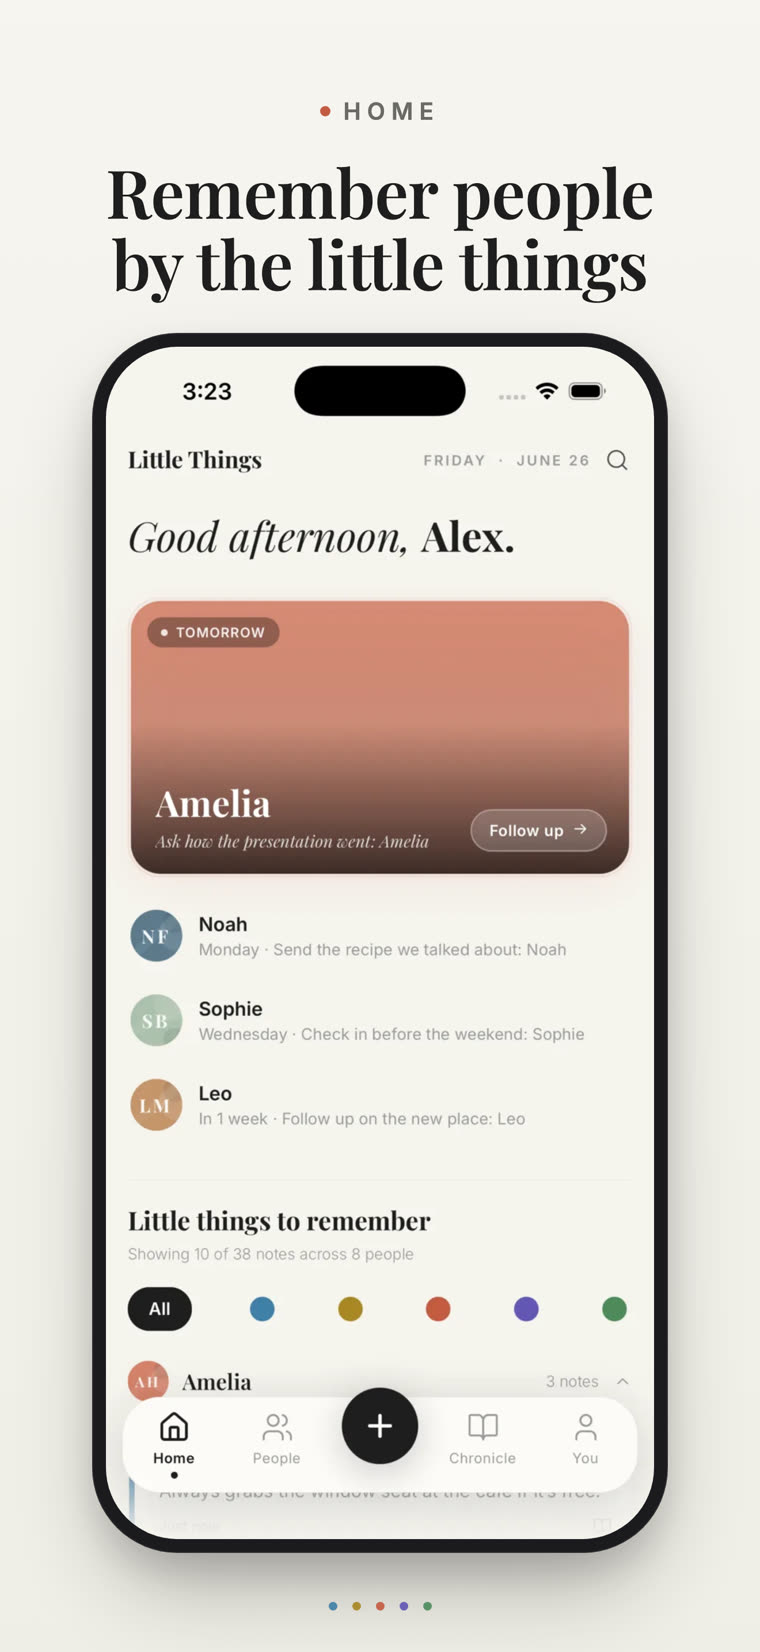
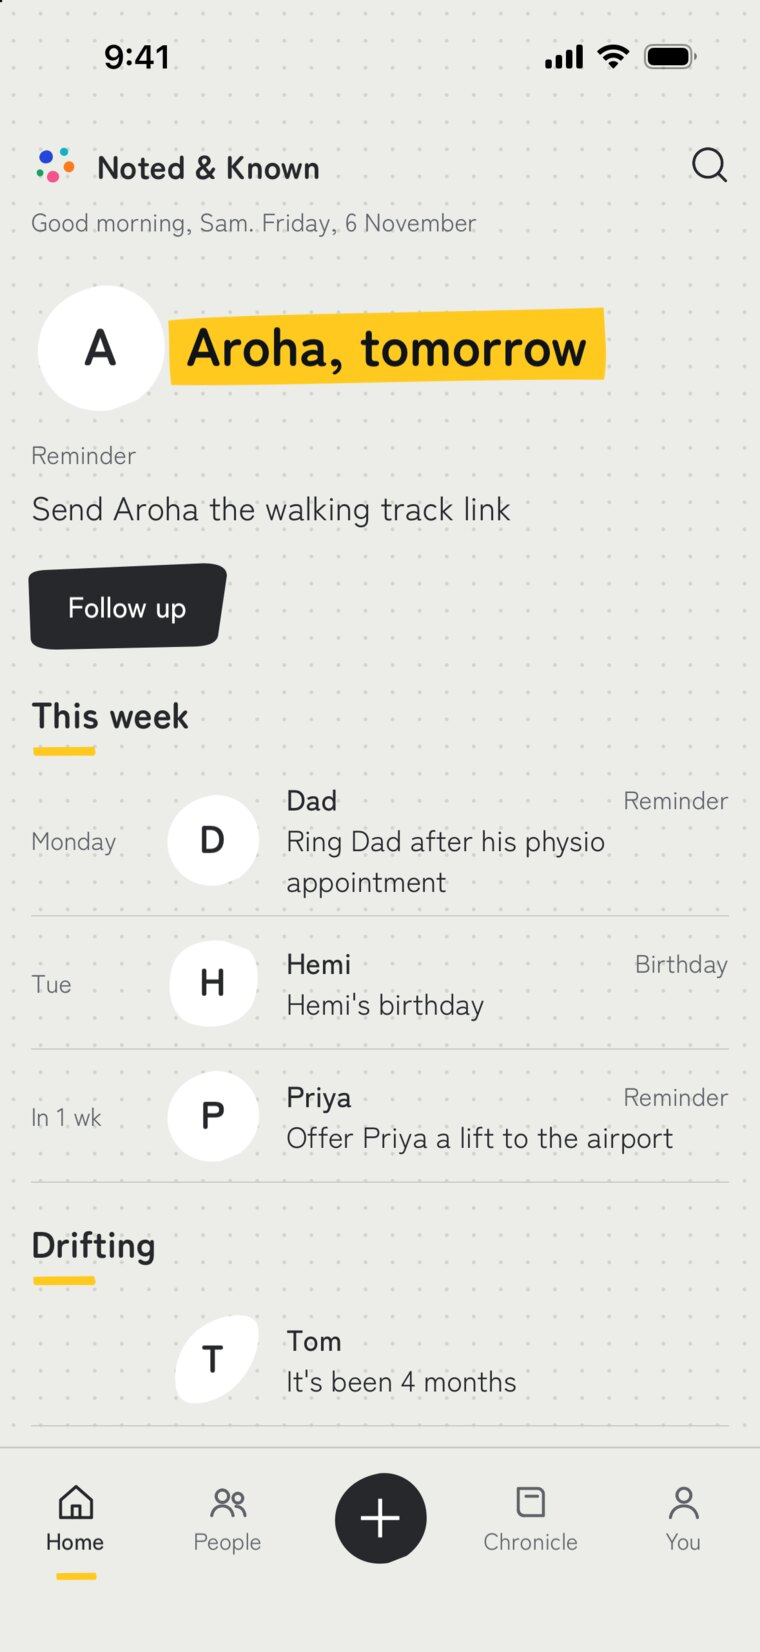
Rename the Little Things case to Noted & Known and refresh its screens

diff --git a/case-littlethings.html b/case-littlethings.html
@@ -3,10 +3,10 @@
 <head>
   <meta charset="UTF-8">
   <meta name="viewport" content="width=device-width, initial-scale=1.0">
-  <title>Little Things — a Singh Studio case</title>
-  <meta name="description" content="Little Things is Singh Studio's own app for iOS and Android: a private, on-device way to remember people by the small details. Designed, built and shipped from one desk.">
-  <meta property="og:title" content="Little Things — a Singh Studio case">
-  <meta property="og:description" content="Little Things is Singh Studio's own app for iOS and Android: a private, on-device way to remember people by the small details. Designed, built and shipped from one desk.">
+  <title>Noted &amp; Known — a Singh Studio case</title>
+  <meta name="description" content="Noted &amp; Known is Singh Studio's own iPhone app: a private, on-device way to remember people by the small details. Designed and built from one desk.">
+  <meta property="og:title" content="Noted &amp; Known — a Singh Studio case">
+  <meta property="og:description" content="Noted &amp; Known is Singh Studio's own iPhone app: a private, on-device way to remember people by the small details. Designed and built from one desk.">
   <meta property="og:type" content="website">
   <meta property="og:site_name" content="Singh Studio">
   <meta property="og:locale" content="en_NZ">
@@ -26,12 +26,12 @@
   {
     "@context": "https://schema.org",
     "@type": "SoftwareApplication",
-    "name": "Little Things",
-    "operatingSystem": "iOS, Android",
+    "name": "Noted & Known",
+    "operatingSystem": "iOS",
     "applicationCategory": "LifestyleApplication",
     "creator": { "@type": "Organization", "name": "Singh Studio" },
-    "url": "https://www.getlittlethings.app",
-    "description": "A private, on-device app for remembering people by the little things: observations, interests, gift ideas, moments and support notes."
+    "url": "https://notedandknown.app/",
+    "description": "A private, on-device app for keeping notes on the people you love: observations, interests, gift ideas, moments and support notes."
   }
   </script>
   <script type="application/ld+json">
@@ -40,7 +40,7 @@
     "@type": "BreadcrumbList",
     "itemListElement": [
       { "@type": "ListItem", "position": 1, "name": "Home", "item": "https://www.singhstudio.co.nz/" },
-      { "@type": "ListItem", "position": 2, "name": "Little Things", "item": "https://www.singhstudio.co.nz/case-littlethings.html" }
+      { "@type": "ListItem", "position": 2, "name": "Noted & Known", "item": "https://www.singhstudio.co.nz/case-littlethings.html" }
     ]
   }
   </script>
@@ -88,12 +88,12 @@
 
     <header class="sub-hero">
       <p class="eyebrow"><span class="red">Case /05</span> Selected work<a class="cc-link" href="index.html#work" style="margin-left: 1em;">← All work</a></p>
-      <h1 class="sub-title"><span class="ht-line"><span class="ht-inner" data-letters>Little<em class="ht-slash" aria-hidden="true">/</em>Things</span></span></h1>
+      <h1 class="sub-title"><span class="ht-line"><span class="ht-inner" data-letters>Noted<em class="ht-slash" aria-hidden="true">&amp;</em>Known</span></span></h1>
       <dl class="case-meta">
         <div><dt>Client</dt><dd>My own product</dd></div>
         <div><dt>Years</dt><dd>2026</dd></div>
         <div><dt>Scope</dt><dd>App · Product design · Build &amp; ship</dd></div>
-        <div><dt>Live</dt><dd><a class="cc-link" href="https://www.getlittlethings.app" target="_blank" rel="noopener">getlittlethings.app ↗</a></dd></div>
+        <div><dt>Live</dt><dd><a class="cc-link" href="https://notedandknown.app/" target="_blank" rel="noopener">notedandknown.app ↗</a></dd></div>
       </dl>
     </header>
 
@@ -105,25 +105,25 @@
         </div>
         <div class="case-block">
           <h2>/ The approach</h2>
-          <p>The design started with the behaviour rather than a feature list: what does caring attention look like, week to week? It settled into five kinds of note (observations, interests, gift ideas, moments, support), a catch-up brief before you see someone, and gentle reminders timed to the moments they serve. Trust decided the architecture. Everything stays on the device, with no account and no cloud copy, so writing something tender about a friend never feels like publishing it. Designed, prototyped and refined in-house, then built in React Native and shipped to both stores.</p>
+          <p>The design started with the behaviour rather than a feature list: what does caring attention look like, week to week? It settled into five kinds of note (observations, interests, gift ideas, moments, support), a catch-up brief before you see someone, and gentle reminders timed to the moments they serve. Trust decided the architecture. Everything stays on the device, with no account and no cloud copy, so writing something tender about a friend never feels like publishing it. Designed, prototyped and refined in-house, then built in React Native for iOS.</p>
         </div>
       </div>
 
-      <ul class="case-scope"><li>Behaviour-first product design</li><li>UX, UI &amp; interaction</li><li>React Native build, iOS &amp; Android</li><li>Store listings &amp; launch site</li></ul>
+      <ul class="case-scope"><li>Behaviour-first product design</li><li>UX, UI &amp; interaction</li><li>React Native build for iOS</li><li>Store listings &amp; launch site</li></ul>
 
       <div class="cs-gallery" data-reveal>
-        <figure><picture><source type="image/webp" srcset="assets/img/lt-shot-home.webp"><img src="assets/img/lt-shot-home.jpg" alt="Home screen: a good-afternoon greeting, a follow-up card for Amelia, and this week's little things to remember" width="760" height="1651" loading="lazy" decoding="async"></picture></figure>
-        <figure><picture><source type="image/webp" srcset="assets/img/lt-shot-person.webp"><img src="assets/img/lt-shot-person.jpg" alt="A person page: Amelia Hart's flat white order, her birthday in nine days, a catch-up brief, and colour-coded notes" width="760" height="1651" loading="lazy" decoding="async"></picture></figure>
-        <figure><picture><source type="image/webp" srcset="assets/img/lt-shot-people.webp"><img src="assets/img/lt-shot-people.jpg" alt="The people list, organised by circles" width="760" height="1651" loading="lazy" decoding="async"></picture></figure>
+        <figure><picture><source type="image/webp" srcset="assets/img/lt-shot-home.webp"><img src="assets/img/lt-shot-home.jpg" alt="Home screen: a good-afternoon greeting, a follow-up card for Aroha tomorrow, this week's reminders and a birthday, and a person who has gone quiet" width="760" height="1651" loading="lazy" decoding="async"></picture></figure>
+        <figure><picture><source type="image/webp" srcset="assets/img/lt-shot-person.webp"><img src="assets/img/lt-shot-person.jpg" alt="A person page: Dad's strong milky tea, his birthday, a catch-up brief, and notes marked by kind" width="760" height="1651" loading="lazy" decoding="async"></picture></figure>
+        <figure><picture><source type="image/webp" srcset="assets/img/lt-shot-people.webp"><img src="assets/img/lt-shot-people.jpg" alt="The People screen, organised into circles such as Inner Circle and Family" width="760" height="1651" loading="lazy" decoding="async"></picture></figure>
         <figure><picture><source type="image/webp" srcset="assets/img/lt-shot-chronicle.webp"><img src="assets/img/lt-shot-chronicle.jpg" alt="The Chronicle: dated moments kept per person, written in your own words" width="760" height="1651" loading="lazy" decoding="async"></picture></figure>
-        <figure><picture><source type="image/webp" srcset="assets/img/lt-shot-you.webp"><img src="assets/img/lt-shot-you.jpg" alt="The You screen, a mirror not a scoreboard: eight people, thirty glints, and a week-by-week grid of what you've been noticing" width="760" height="1651" loading="lazy" decoding="async"></picture></figure>
-        <figure><picture><source type="image/webp" srcset="assets/img/lt-shot-privacy.webp"><img src="assets/img/lt-shot-privacy.jpg" alt="Privacy settings: notes stay on the device, a privacy lock, and a notification rhythm set to a quiet digest" width="760" height="1651" loading="lazy" decoding="async"></picture></figure>
+        <figure><picture><source type="image/webp" srcset="assets/img/lt-shot-you.webp"><img src="assets/img/lt-shot-you.jpg" alt="The You screen: nine people, twenty-nine notes and six moments, and a week-by-week grid of the last three months" width="760" height="1651" loading="lazy" decoding="async"></picture></figure>
+        <figure><picture><source type="image/webp" srcset="assets/img/lt-shot-privacy.webp"><img src="assets/img/lt-shot-privacy.jpg" alt="Settings: Noted and Known Full, storage set to local only, and a note that exported files are not encrypted" width="760" height="1651" loading="lazy" decoding="async"></picture></figure>
       </div>
 
       <div class="case-grid cg-brief">
         <div class="case-block">
           <h2>/ What it does</h2>
-          <p>Each person gets a page for the details you’d otherwise lose, with a catch-up brief before you next see them and reminders timed to the moment. The Chronicle keeps a dated record of what you noticed, in your own words. The app locks behind Face ID, everything can leave with you as an export, and the free tier covers eight people with one flat unlock beyond that; there is no subscription.</p>
+          <p>Each person gets a page for the details you’d otherwise lose, with a catch-up brief before you next see them and reminders timed to the moment. The Chronicle keeps a dated record of what you noticed, in your own words. The app can lock behind Face ID or your passcode, everything can leave with you as an export, and the free tier covers eight people with one flat unlock beyond that; there is no subscription.</p>
         </div>
         <div class="case-block">
           <h2>/ Why it matters</h2>
@@ -135,11 +135,11 @@
         <div class="case-block">
           <h2>/ The outcome</h2>
           <dl class="case-facts">
-            <div class="fact"><dt>Shipped</dt><dd>Live on the App Store and Google Play, with its own launch site</dd></div><div class="fact"><dt>Private by build</dt><dd>On-device data, biometric lock, export in your hands</dd></div><div class="fact"><dt>Whole product</dt><dd>Behaviour research to store listing, one desk end to end</dd></div>
+            <div class="fact"><dt>Shipped</dt><dd>Built for iOS, with its own store listing and website</dd></div><div class="fact"><dt>Private by build</dt><dd>On-device data, biometric lock, export in your hands</dd></div><div class="fact"><dt>Whole product</dt><dd>Behaviour research to store listing, one desk end to end</dd></div>
           </dl>
         </div>
         <div class="case-block">
-          <p class="case-pull">“Built because I kept forgetting the little things too.”</p>
+          <p class="case-pull">“Built because I kept forgetting the small details too.”</p>
         </div>
       </div>
 
@@ -149,7 +149,7 @@
           <span class="cn-title">Butterfly Builds →</span>
         </a>
         <a class="cc-link case-tpl-link" href="templates.html">Want this shape, sooner? Templates →</a>
-        <a class="btn btn-solid" href="index.html?about=the%20Little%20Things%20case#contact" data-magnetic data-cursor="BOOK">Start your brief</a>
+        <a class="btn btn-solid" href="index.html?about=the%20Noted%20%26%20Known%20case#contact" data-magnetic data-cursor="BOOK">Start your brief</a>
       </div>
     </section>
 

diff --git a/index.html b/index.html
@@ -322,11 +322,11 @@
           </div>
         </a>
         <a class="work-card" href="case-littlethings.html" data-cursor="CASE">
-          <figure class="wc-media"><picture><source type="image/webp" srcset="assets/img/work-littlethings.webp"><img src="assets/img/work-littlethings.jpg" alt="Four Little Things screens side by side: home, a person page, the Chronicle and the You screen" width="1600" height="1000" loading="lazy" decoding="async"></picture></figure>
+          <figure class="wc-media"><picture><source type="image/webp" srcset="assets/img/work-littlethings.webp"><img src="assets/img/work-littlethings.jpg" alt="Four Noted &amp; Known screens side by side: home, a person page, the Chronicle and the You screen" width="1600" height="1000" loading="lazy" decoding="async"></picture></figure>
           <div class="wc-meta">
-            <h3>Little Things</h3>
-            <p class="wc-desc">My own app for remembering the little things about people.</p>
-            <p class="wc-tags">App · iOS &amp; Android <span>2026</span></p>
+            <h3>Noted &amp; Known</h3>
+            <p class="wc-desc">My own app for remembering what matters about the people in your life.</p>
+            <p class="wc-tags">App · iOS <span>2026</span></p>
           </div>
         </a>
         <a class="work-card" href="case-butterfly.html" data-cursor="CASE">

diff --git a/kris.html b/kris.html
@@ -193,7 +193,7 @@
         <p class="section-note">The projects behind the case studies.</p>
       </div>
       <dl class="studio-facts case-facts" data-reveal>
-        <div class="fact"><dt>2026</dt><dd>Little Things: the studio’s own app, designed, built and shipped to iOS and Android</dd></div>
+        <div class="fact"><dt>2026</dt><dd>Noted &amp; Known: the studio’s own app, designed and built for iOS</dd></div>
         <div class="fact"><dt>2025 – now</dt><dd>Peniel Trust: site, donations with automated receipts, Growth Fund campaign</dd></div>
         <div class="fact"><dt>2023 – 2025</dt><dd>Amplify conference: identity, motion and web, three consecutive builds</dd></div>
         <div class="fact"><dt>2023 – 2024</dt><dd>More Conference: site and campaign, rebooked for a second year</dd></div>

diff --git a/case-futurepartners.html b/case-futurepartners.html
@@ -209,7 +209,7 @@
       <div class="case-next">
         <a href="case-littlethings.html" data-cursor="NEXT">
           <span class="cn-label">Next case</span>
-          <span class="cn-title">Little Things →</span>
+          <span class="cn-title">Noted &amp; Known →</span>
         </a>
         <a class="cc-link case-tpl-link" href="templates.html">Want this shape, sooner? Templates →</a>
         <a class="btn btn-solid" href="index.html?about=the%20Future%20Partners%20case#contact" data-magnetic data-cursor="BOOK">Start your brief</a>

diff --git a/CONTENT-GUIDE.md b/CONTENT-GUIDE.md
@@ -6,7 +6,7 @@ Every human-visible copy block on the site, page by page, in the order a visitor
 
 Not included: ARIA labels, `aria-hidden` decorative strings, JSON-LD/schema values that mirror visible copy, and JS-only strings (console messages, class names). Meta titles/descriptions and og: tags **are** included, since buyers and search results read those.
 
-**Case-set change 2026-07-13.** The Selected work section was rebuilt: case-more, case-bandcamp and case-firezone were retired (pages, cards and images removed), and seven cases were added — case-nextgen (Tino Taonga), case-peniel, case-littlethings, case-butterfly, case-wcn, case-bearers, case-rhythms — each with its own `work-*.jpg`/`.webp` card art and live-site link. The homepage grid now holds 8 cards and its section note reads "Web, app and audio, one desk." kris.html's Selected history gained four rows (Little Things 2026, Peniel 2025–now, Rhythms 2023–24, Bearers 2016). The per-block copy inventory below still describes the OLD four-case set — rows for the new pages haven't been inventoried yet; read the new files directly until a future pass adds them.
+**Case-set change 2026-07-13.** The Selected work section was rebuilt: case-more, case-bandcamp and case-firezone were retired (pages, cards and images removed), and seven cases were added — case-nextgen (Tino Taonga), case-peniel, case-littlethings, case-butterfly, case-wcn, case-bearers, case-rhythms — each with its own `work-*.jpg`/`.webp` card art and live-site link. The homepage grid now holds 8 cards and its section note reads "Web, app and audio, one desk." kris.html's Selected history gained four rows (Noted & Known 2026, Peniel 2025–now, Rhythms 2023–24, Bearers 2016). The per-block copy inventory below still describes the OLD four-case set — rows for the new pages haven't been inventoried yet; read the new files directly until a future pass adds them.
 
 **Re-verified 2026-07-08 (post-elevation, Wave 6).** index.html's document head, preloader, nav labels and hero copy (the surfaces a brand-reconciliation pass explicitly rewrote) have been re-checked against the live HTML and corrected below where they'd drifted — old positioning ("web design first", "Every discipline. One message.") is gone sitewide, and nav is now 4 items (Disciplines/Work/Thoughts/Kris) not 5. Section numbering (01–07) itself hadn't actually changed — only two eyebrow *labels* had ("02 / Services" → "02 / Disciplines", "06 / The studio" → "06 / Kris"), both corrected below. Everything **below** the sections marked "corrected"/checked `[x]` in this pass (case pages, together.html, kris.html, archive.html, thoughts.html body copy, templates.html) was spot-checked for a few high-risk claims (frame counts, meta-description truncation — both confirmed fixed independently, see `LAUNCH-CHECKLIST.md`) but was not re-verified line-by-line — a full re-audit of ~250 content rows was out of scope for this pass. Treat unmarked `[ ]` rows as "probably still accurate, not guaranteed" rather than "verified."
 

diff --git a/IMAGE-MAP.md b/IMAGE-MAP.md
@@ -111,7 +111,7 @@ Most of these frames appear in **both** index.html's horizontal light-table stri
 | `assets/img/work-amplify.jpg` | 1600×934 | index.html work-grid card; case-amplify.html hero shot (`case-shot`, `data-mask`); og:image for case-amplify.html | Work card: `<img width="1600" height="934">` cover-crop. Case page: full-width masked reveal. | Landscape, ~16:9-ish (1600×934 ≈ 1.71:1), a clean full-page screenshot or hero frame of the actual site/build. Keep width/height attributes in sync with the real file to avoid layout shift. |
 | `assets/img/work-nextgen.jpg` (+ `-800`, webp siblings) | 1600×1000 / 800×500 | index.html work-grid card (srcset 800w/1600w); og:image + JSON-LD image for case-nextgen.html | Work card cover-crop, same `<picture>` pattern as Peniel | Live homepage capture at 1440×900 @2x with the bubble film held at 10.5 s (singer under purple light). Rebuild with `_planning/tino-taonga-case/` (see the Tino Taonga section below). |
 | `assets/img/work-peniel.jpg` | 1600×1000 | index.html work-grid card; case-peniel.html hero shot; og:image for case-peniel.html | Same pattern | Studio photo of the WHCC building front (from the client asset folder). |
-| `assets/img/work-littlethings.jpg` | 1600×1000 | index.html work-grid card; case-littlethings.html hero shot; og:image for case-littlethings.html | Same pattern | Composite: two app screenshots (home + person page) on an ink ground, built with ffmpeg hstack+pad. Rebuild from getlittlethings.app screenshot assets if the app UI changes. |
+| `assets/img/work-littlethings.jpg` | 1600×1000 | index.html work-grid card; case-littlethings.html hero shot; og:image for case-littlethings.html | Same pattern | Composite: four Noted & Known screens (home, person page, Chronicle, You) side by side, each cropped to 400×1000 and joined with ImageMagick. Rebuild from the raw captures in the app repo (docs/release/store-submission-kit/raw) if the app UI changes. |
 | `assets/img/work-butterfly.jpg` | 1600×1000 | index.html work-grid card; case-butterfly.html hero shot; og:image for case-butterfly.html | Same pattern | Project photography from the live butterflybuilds.co.nz homepage hero. |
 | `assets/img/work-wcn.jpg` | 1600×1000 | index.html work-grid card; case-wcn.html hero shot; og:image for case-wcn.html | Same pattern | Homepage hero image from the live wellingtonchurchnetwork.co.nz site (their licensed imagery). |
 | `assets/img/work-bearers.jpg` | 1600×1000 | index.html work-grid card; case-bearers.html hero shot; og:image for case-bearers.html | Same pattern | This Is Who We Are EP artwork centred on an ink ground (pad, not crop — keep the square art whole). |
